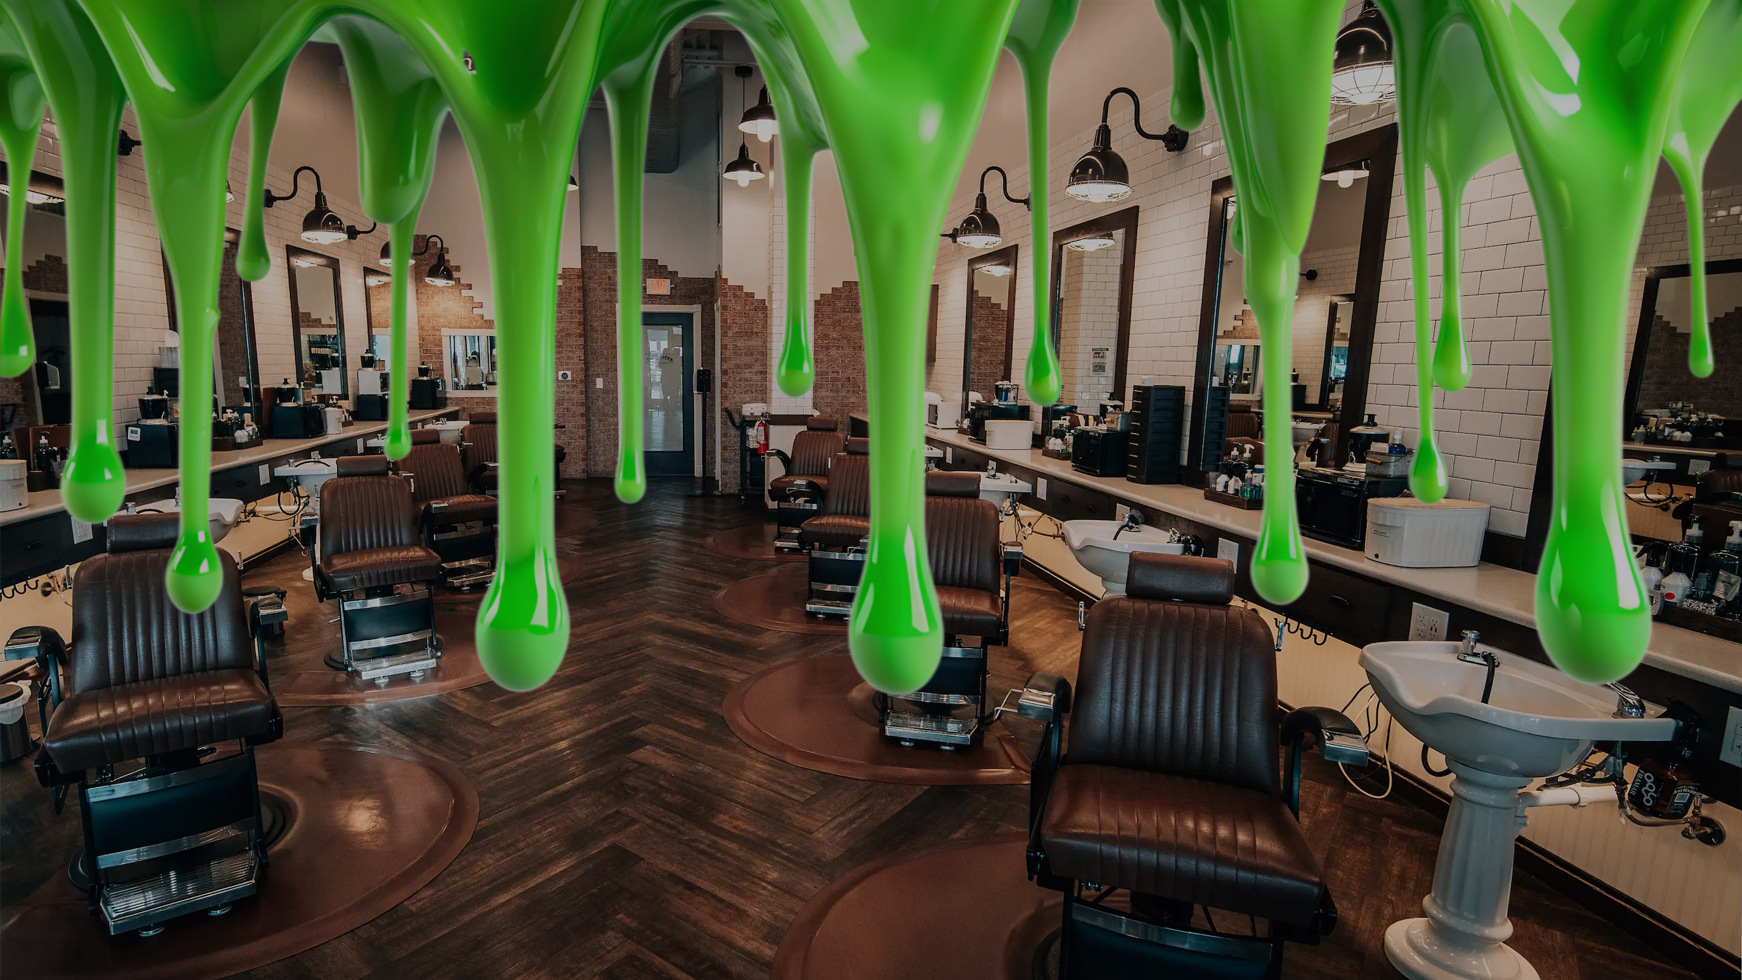
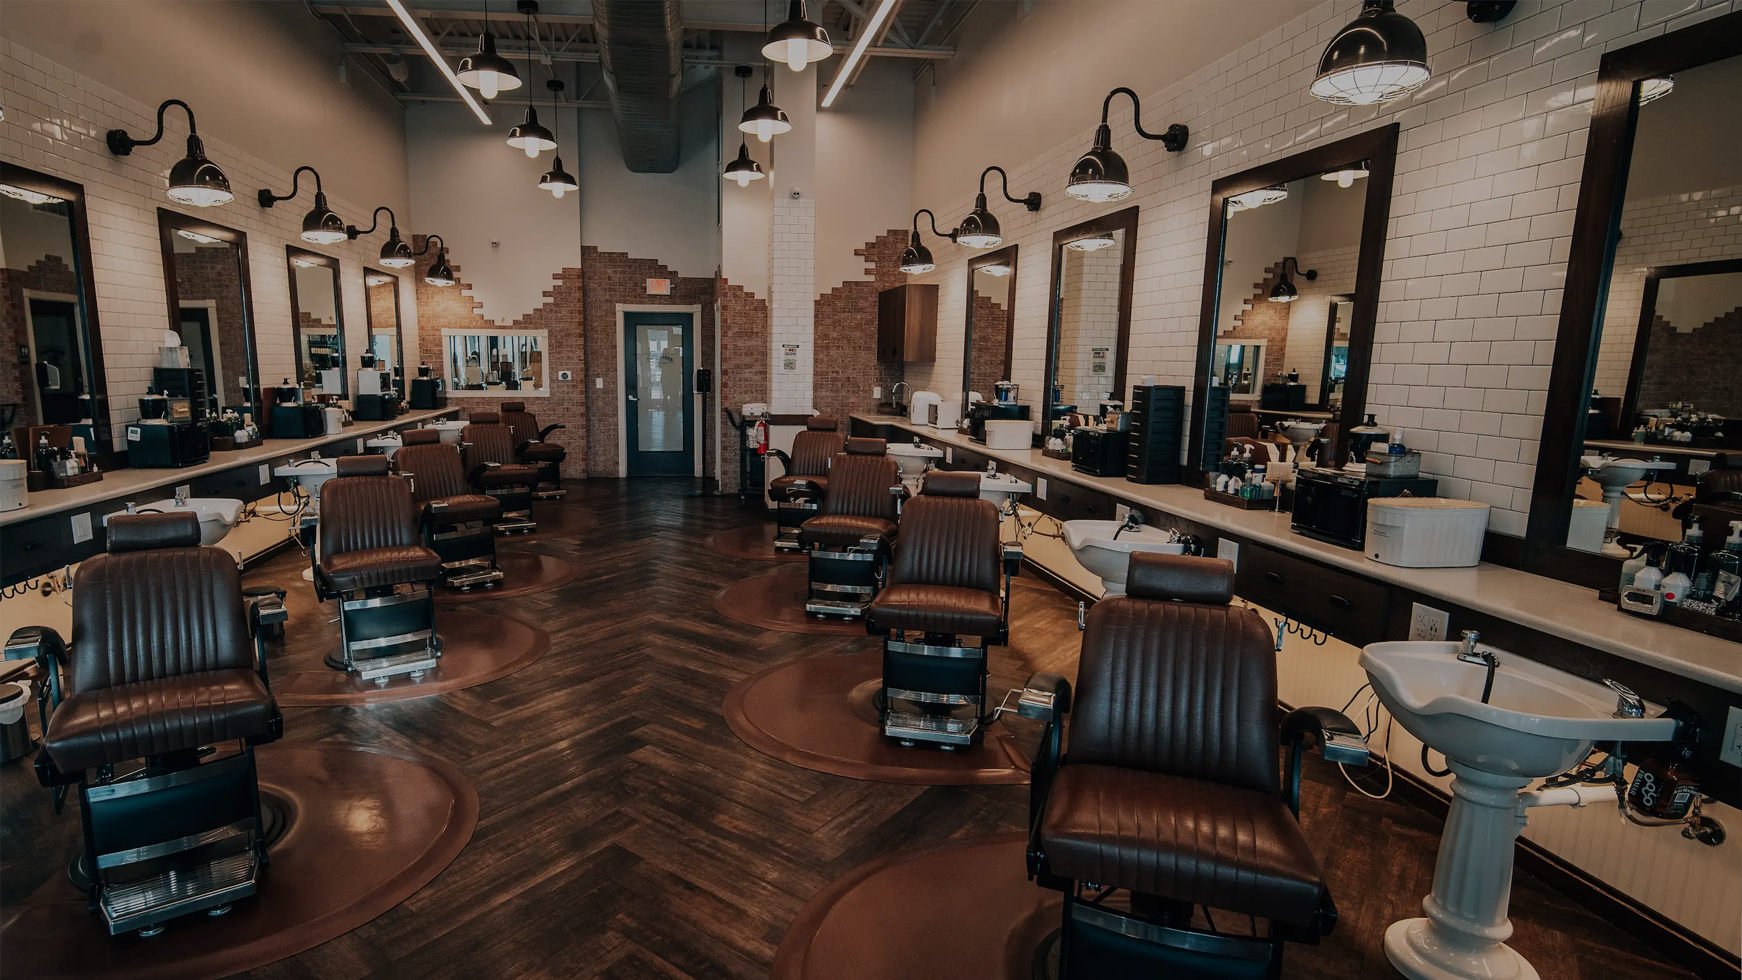
Update hero copy, hours, and Calendly booking with slime branding.
Reflect 5+ years and Mon–Sat in-shop hours site-wide, highlight hero highlights in slime green, and wrap the Calendly embed with slime.png plus dark theme colors.

Changed region(s): [[0.0, 0.0, 0.62, 0.7041], [0.651, 0.0, 1.0, 0.7041]]

diff --git a/index.html b/index.html
@@ -29,7 +29,7 @@
   <link rel="dns-prefetch" href="//cdn.jsdelivr.net" crossorigin>
   
   <title>Kuts By Lee | Barber in Douglasville, GA | Fades, Specialty Kuts & House Calls</title>
-  <meta name="description" content="Kuts By Lee — professional barber in Douglasville, GA. Fades, specialty kuts, line-ups, beard trims & house calls. In-shop Tue–Sat 12–8. Book online or call [phone redacted]." />
+  <meta name="description" content="Kuts By Lee — professional barber in Douglasville, GA. Fades, specialty kuts, line-ups, beard trims & house calls. In-shop Mon–Sat 12–8. Book online or call [phone redacted]." />
   <meta name="keywords" content="mobile barber douglasville, barber douglasville ga, fade haircut douglasville, beard trim douglasville, house call barber douglasville, mobile barber douglas county, barber shop douglasville, haircut douglasville, fade douglasville, taper cut douglasville, line up douglasville, razor finish douglasville, professional barber douglasville, licensed barber douglasville, mobile barber service douglasville, barber near me douglasville, best barber douglasville, african american barber douglasville, black barber douglasville, barber 2025, mobile barber 2025" />
   <meta name="author" content="Kuts By Lee" />
   <meta name="robots" content="index,follow,max-image-preview:large,max-snippet:-1,max-video-preview:-1" />
@@ -44,7 +44,7 @@
   <meta property="og:type" content="website" />
   <meta property="og:url" content="https://kutsbylee.com/" />
   <meta property="og:title" content="Kuts By Lee | Barber in Douglasville, GA" />
-  <meta property="og:description" content="Fades, specialty kuts, line-ups & house calls in Douglasville & Douglas County. In-shop Tue–Sat, house calls Mon–Tue. Book online today!" />
+  <meta property="og:description" content="Fades, specialty kuts, line-ups & house calls in Douglasville & Douglas County. In-shop Mon–Sat, house calls Mon–Tue. Book online today!" />
   <meta property="og:image" content="https://kutsbylee.com/SEO.jpg" />
   <meta property="og:image:width" content="1200" />
   <meta property="og:image:height" content="630" />
@@ -117,7 +117,7 @@
     "@type": "Barbershop",
     "name": "Kuts By Lee",
     "alternateName": "Kuts By Lee Barber",
-    "description": "Professional barber serving Douglasville, GA and surrounding areas. Fades, specialty kuts, line-ups, beard trims, and house calls with 4+ years of experience.",
+    "description": "Professional barber serving Douglasville, GA and surrounding areas. Fades, specialty kuts, line-ups, beard trims, and house calls with 5+ years of experience.",
     "url": "https://kutsbylee.com/",
     "logo": "https://kutsbylee.com/logo.PNG",
     "image": "https://kutsbylee.com/SEO.jpg",
@@ -219,7 +219,7 @@
     "openingHoursSpecification": [
       {
         "@type": "OpeningHoursSpecification",
-        "dayOfWeek": ["Tuesday", "Wednesday", "Thursday", "Friday", "Saturday"],
+        "dayOfWeek": ["Monday", "Tuesday", "Wednesday", "Thursday", "Friday", "Saturday"],
         "opens": "12:00",
         "closes": "20:00"
       },
@@ -275,7 +275,7 @@
       "@type": "Person",
       "name": "Lee",
       "jobTitle": "Professional Barber",
-      "description": "Licensed barber with 4+ years of professional experience specializing in fades, tapers, and mobile services."
+      "description": "Licensed barber with 5+ years of professional experience specializing in fades, tapers, and mobile services."
     },
     "foundingDate": "2021",
     "knowsAbout": ["Haircuts", "Fades", "Tapers", "Beard Trims", "Line-ups", "Mobile Barber Services"],
@@ -927,6 +927,49 @@
       margin-top: 0.15rem;
       color: var(--slime);
     }
+    #book {
+      position: relative;
+    }
+    .book-calendly {
+      position: relative;
+      overflow: hidden;
+      border-radius: 1.25rem;
+      border: 1px solid var(--border-strong);
+      box-shadow: 0 24px 56px rgba(0, 0, 0, 0.4);
+    }
+    .book-calendly__bg {
+      position: absolute;
+      inset: 0;
+      background-color: #0A0C0A;
+      background-image: url('slime.png');
+      background-repeat: repeat-x;
+      background-position: top center;
+      background-size: auto;
+      pointer-events: none;
+    }
+    .book-calendly__bg::after {
+      content: '';
+      position: absolute;
+      inset: 0;
+      background: rgba(0, 0, 0, 0.62);
+    }
+    .book-calendly__inner {
+      position: relative;
+      z-index: 1;
+      padding: 2rem 1rem 1rem;
+    }
+    @media (min-width: 768px) {
+      .book-calendly__inner { padding: 2.5rem 1.25rem 1.25rem; }
+    }
+    .book-calendly .calendly-inline-widget {
+      background: transparent !important;
+      min-width: 100%;
+      height: 740px;
+    }
+    .book-calendly .calendly-inline-widget iframe {
+      color-scheme: light;
+      border-radius: 0.75rem;
+    }
     .contact-book-link {
       display: inline-flex;
       align-items: center;
@@ -1274,7 +1317,7 @@
           <h1 class="text-5xl md:text-6xl font-extrabold leading-tight text-white drop-shadow-[0_2px_12px_rgba(0,0,0,0.45)]">
             Sharp Kuts. <span class="text-slime">House Calls.</span> On Your Time.
           </h1>
-          <p class="mt-4 text-lg text-white/90 drop-shadow-[0_1px_8px_rgba(0,0,0,0.4)]">I'm Lee — professional barber with 4+ years behind the chair. In-shop Tue–Sat or I bring the shop to you on Mon & Tue.</p>
+          <p class="mt-4 text-lg text-white/90 drop-shadow-[0_1px_8px_rgba(0,0,0,0.4)]">I'm Lee — professional barber with <span class="text-slime font-semibold">5+ years</span> behind the chair.<br>In-shop <span class="text-slime font-semibold">Monday–Saturday</span>.</p>
           <div class="mt-6 flex flex-wrap gap-3 justify-center">
             <a href="#book" class="btn-primary shadow-btn px-6 py-3 rounded-xl font-semibold mobile-btn touch-target">Book a Kut</a>
             <a href="tel:[phone redacted]" class="px-6 py-3 rounded-xl border border-white/30 bg-white/10 backdrop-blur-sm hover:bg-white/20 mobile-btn touch-target text-white">Call [phone redacted]</a>
@@ -1289,7 +1332,7 @@
     <div class="grid md:grid-cols-2 gap-10 items-center">
       <div>
         <h2 class="text-3xl font-bold">Meet Lee</h2>
-        <p class="mt-3 text-ink/75">With 4+ years of professional experience, I specialize in fades, specialty kuts, shape-ups, beard line-ups, and clean razor finishes. Walk in for an in-shop appointment or book a house call — I show up equipped so you look sharp.</p>
+        <p class="mt-3 text-ink/75">With 5+ years of professional experience, I specialize in fades, specialty kuts, shape-ups, beard line-ups, and clean razor finishes. Walk in for an in-shop appointment or book a house call — I show up equipped so you look sharp.</p>
         <ul class="mt-6 space-y-2 text-ink/75">
           <li>• Licensed & insured</li>
           <li>• In-shop & house calls in Douglasville & nearby</li>
@@ -1300,7 +1343,7 @@
           <div class="mt-4 grid sm:grid-cols-2 gap-6 text-ink/80">
             <div>
               <p class="font-semibold text-ink">In-Shop</p>
-              <p class="mt-1 text-sm">Tue – Sat · 12:00 PM – 8:00 PM</p>
+              <p class="mt-1 text-sm">Mon – Sat · 12:00 PM – 8:00 PM</p>
             </div>
             <div>
               <p class="font-semibold text-ink">House Calls</p>
@@ -1327,7 +1370,7 @@
           <div class="services-intro-card">
             <p class="text-sm font-bold uppercase tracking-[0.2em] text-white/85">Kuts By Lee</p>
             <h2 class="mt-4 text-3xl md:text-4xl xl:text-[2.65rem] font-extrabold uppercase">Professional Kut Services Tailored to You</h2>
-            <p class="mt-5 text-base md:text-lg text-white/90 leading-relaxed">Fades, specialty kuts, line-ups, and beard work — in-shop Tue–Sat or house calls Mon & Tue across Douglasville and Douglas County.</p>
+            <p class="mt-5 text-base md:text-lg text-white/90 leading-relaxed">Fades, specialty kuts, line-ups, and beard work — in-shop Mon–Sat or house calls Mon & Tue across Douglasville and Douglas County.</p>
             <a href="#book" class="mt-8 inline-flex items-center justify-center px-6 py-3 rounded-full bg-white text-slime font-semibold shadow-lg hover:brightness-105 transition mobile-btn touch-target">Book a Service</a>
           </div>
         </div>
@@ -1589,8 +1632,15 @@
   <!-- Calendly -->
   <section id="book" class="max-w-7xl mx-auto px-4 py-16">
     <h2 class="text-3xl font-bold mb-6">Book Your Kut</h2>
-    <div class="rounded-2xl overflow-hidden ring-4 ring-slime/20">
-      <div class="calendly-inline-widget" data-url="https://calendly.com/cutitoutlee/30min" style="min-width:320px;height:740px;"></div>
+    <div class="book-calendly">
+      <div class="book-calendly__bg" aria-hidden="true"></div>
+      <div class="book-calendly__inner">
+        <div
+          class="calendly-inline-widget"
+          data-url="https://calendly.com/cutitoutlee/30min?hide_gdpr_banner=1&amp;background_color=0a0c0a&amp;text_color=eef2e8&amp;primary_color=7ecb00"
+          style="min-width:320px;height:740px;"
+        ></div>
+      </div>
     </div>
   </section>
 
@@ -1643,7 +1693,7 @@
             </div>
             <div class="contact-details__row">
               <svg viewBox="0 0 24 24" fill="none" stroke="currentColor" stroke-width="1.8" aria-hidden="true"><path stroke-linecap="round" stroke-linejoin="round" d="M12 6v6l4 2"/><circle cx="12" cy="12" r="9"/></svg>
-              <span><strong class="text-ink">In-shop hours</strong><br>Tue – Sat · 12:00 PM – 8:00 PM</span>
+              <span><strong class="text-ink">In-shop hours</strong><br>Mon – Sat · 12:00 PM – 8:00 PM</span>
             </div>
             <div class="contact-details__row">
               <svg viewBox="0 0 24 24" fill="none" stroke="currentColor" stroke-width="1.8" aria-hidden="true"><path stroke-linecap="round" stroke-linejoin="round" d="M3 12l9-7 9 7v8a1 1 0 01-1 1h-5v-6H9v6H4a1 1 0 01-1-1v-8z"/></svg>